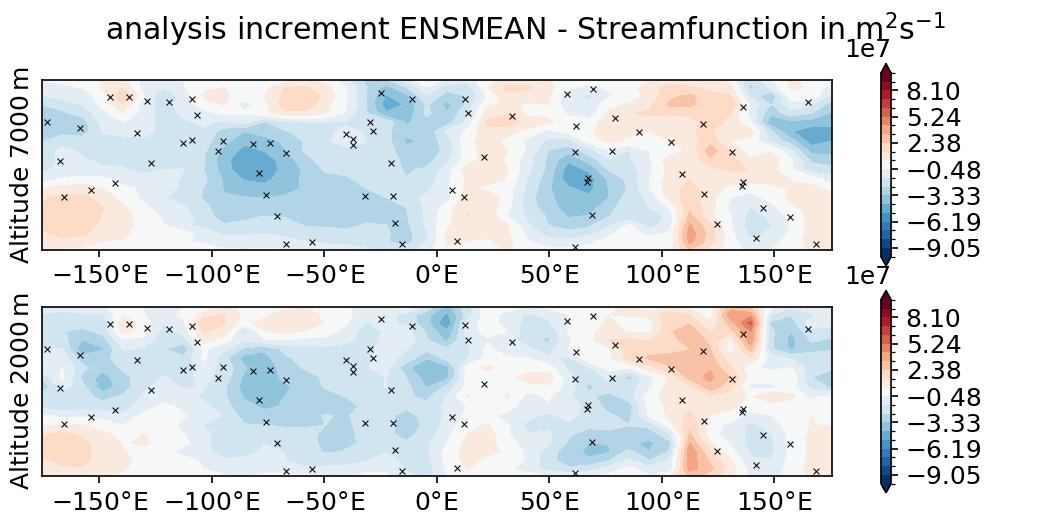
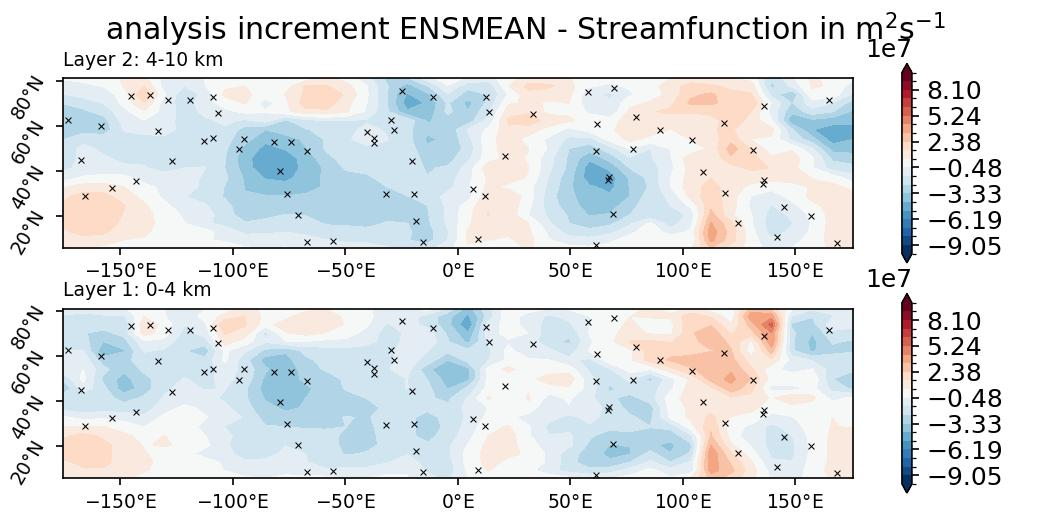
Modifications to LETKF and QGStart tutorials
- Edited qg_fields.py to add latitude axis labels, and labels for each panel as layer 1 and 2.
- Updated tutorial images for qgstart and LETKF tutorials accordingly
- Consolidated single-observation experiment to same observation for all 3d solvers (to do: need to edit EnVar and 3dvar tutorials accordingly)
- Modified letkf notebook to plot ensemble perturbations rather than member errors. This requires the new script `compute_ensmean.py` to visualize perturbations with plot.py.
- Other minor edits to the notebook text provided

Changed region(s): [[0.0, 0.061, 0.9752, 0.9752]]

diff --git a/notebooks/EDU/plots_scripts/plot/qg_fields.py b/notebooks/EDU/plots_scripts/plot/qg_fields.py
@@ -219,15 +219,13 @@ def func(args):
             vmax = float(args.fieldmax)
             ex=1
             if (vmax > 1e12): ex=2
-            if (variable == 'q'): vmax=0.5*vmax*(10**-12)**ex #3.5e-4
+            if (variable == 'q'): vmax=0.5*vmax*(10**-11.5)**ex #3.5e-4
             if (variable == 'u'): vmax=0.5*vmax*(10**-6)**ex #140.0
-            if (variable == 'v'): vmax=0.5*vmax*(10**-6)**ex #70.0
+            if (variable == 'v'): vmax=0.25*vmax*(10**-6)**ex #70.0
             vmin = -vmax
             npltlevs=22
         else:
             vmax = 0.0
-            tmax=0.0
-            tmin=0.0
             if args.basefilepath is None: # Full field
                 if (variable == 'x'): vmax=5.0e8 #5.0e8
                 if (variable == 'q'): vmax=6.5e-4  #6.5e-4
@@ -242,11 +240,14 @@ def func(args):
                 npltlevs=22
             vmin = -1.0 * vmax
             if args.basefilepath is None and variable == 'x': vmax=1.1e8
-            for level in levels:
-                for field in fields_plot:
-                    tmax = max(tmax, np.max(field[level]))
-                    tmin = min(tmin, np.min(field[level]))
-            print(f"data range:({tmin},{tmax}), plot range: ({vmin},{vmax}) ")
+        tmax=0.0
+        tmin=0.0
+        for level in levels:
+            for field in fields_plot:
+                tmax = max(tmax, np.max(field[level]))
+                tmin = min(tmin, np.min(field[level]))
+        print(f"data range:({tmin},{tmax}), plot range: ({vmin},{vmax}) ")
+        
         for level in levels:
             clevels.append(np.linspace(vmin, vmax, npltlevs))
             clevels_obs.append(np.linspace(-1.0e8, 1.0e8, npltlevs))
@@ -259,11 +260,12 @@ def func(args):
         params = {
             "font.size": 12,
             "text.latex.preamble" : r"\usepackage{amsmath}\usepackage{amsfonts}",
-            "ytick.left": False,
-            "ytick.labelleft": False,
+            #"ytick.left": False,
+            #"ytick.labelleft": False,
         }
         plt.rcParams.update(params)
         my_formatter = mticker.FuncFormatter(lambda x, pos:"{:.0f}$\degree$E".format(x).replace("-", "\N{MINUS SIGN}"))
+        my_formatter2 = mticker.FuncFormatter(lambda x, pos:"{:.0f}$\degree$N".format(x).replace("-", "\N{MINUS SIGN}"))
         if args.plotwind:
             # Select scale
             if args.basefilepath is None:
@@ -315,8 +317,12 @@ def func(args):
                 ax.set_aspect("equal")
                 cb = fig.colorbar(im, ax=ax, shrink=0.9, extend='both', format=("%.1e" if variable == "q" else None))
                 #ax.set_ylabel("Altitude {:.0f}$\,$m".format(z_coord[level]))
-                ax.set_ylabel(f"Ly {level+1}: {int(z_depths[level][0])}-{int(z_depths[level][1])}km")
+                #ax.set_ylabel(f"Ly {level+1}: {int(z_depths[level][0])}-{int(z_depths[level][1])}km")
                 ax.xaxis.set_major_formatter(my_formatter)
+                ax.yaxis.set_major_formatter(my_formatter2)
+                ax.tick_params(axis='x', labelsize=9)
+                ax.tick_params(axis='y', labelrotation=60, labelsize=9) 
+                ax.set_title(f"Layer {level+1}: {int(z_depths[level][0])}-{int(z_depths[level][1])} km", fontsize=9, loc='left')
 
                 # Set title
                 varname = dict(x="Streamfunction", q="Potential vorticity",u="Zonal Wind", v="Meridional Wind").get(variable)
@@ -325,7 +331,7 @@ def func(args):
                     fig.suptitle(args.title + " - " + varname + " in " + unit)
                 else:
                     fig.suptitle(varname + " in " + unit)
-                fig.subplots_adjust(left=0.04, right=0.98, bottom=0.04, top=0.9, hspace=0.01)
+                fig.subplots_adjust(left=0.06, right=1.0, bottom=0.04, top=0.90, hspace=0.04)
 
             # Save plot
             if args.output is None:

diff --git a/notebooks/EDU/plots_scripts/compute_ensmean.py b/notebooks/EDU/plots_scripts/compute_ensmean.py
@@ -1,0 +1,94 @@
+#!/usr/bin/env python3
+
+import argparse
+import glob
+import numpy as np
+from netCDF4 import Dataset
+
+def main():
+    parser = argparse.ArgumentParser(
+        description="Compute ensemble mean from NetCDF ensemble members"
+    )
+    parser.add_argument(
+        "-p", "--pattern",
+        required=True,
+        help="Input file pattern, e.g. bkgd.ens.*.2009-12-30T00:00:00Z.P1D.nc"
+    )
+    parser.add_argument(
+        "-o", "--output",
+        required=True,
+        help="Output ensemble mean file"
+    )
+    args = parser.parse_args()
+
+    files = sorted(glob.glob(args.pattern))
+
+    if len(files) == 0:
+        raise RuntimeError("No files found matching pattern")
+
+    print(f"Found {len(files)} ensemble members")
+
+    # --- Open first file as template ---
+    ds0 = Dataset(files[0], "r")
+
+    # Identify variables to average (exclude coordinates)
+    varnames = []
+    for v in ds0.variables:
+        if v in ds0.dimensions:
+            continue  # skip coordinate variables like time, lat, lon
+        varnames.append(v)
+
+    print(f"Variables to average: {varnames}")
+
+    # --- Initialize accumulators ---
+    sums = {}
+    for v in varnames:
+        sums[v] = np.zeros_like(ds0.variables[v][:], dtype=np.float64)
+
+    # --- Loop over ensemble members ---
+    for f in files:
+        print(f"Reading {f}")
+        ds = Dataset(f, "r")
+
+        for v in varnames:
+            sums[v] += ds.variables[v][:]
+
+        ds.close()
+
+    # --- Compute mean ---
+    nmem = len(files)
+    means = {v: sums[v] / nmem for v in varnames}
+
+    # --- Write output file ---
+    out = Dataset(args.output, "w")
+
+    # Copy dimensions
+    for dim_name, dim in ds0.dimensions.items():
+        out.createDimension(dim_name, len(dim) if not dim.isunlimited() else None)
+
+    # Copy variables
+    for name, var in ds0.variables.items():
+        out_var = out.createVariable(name, var.datatype, var.dimensions)
+
+        # Copy attributes
+        out_var.setncatts({k: var.getncattr(k) for k in var.ncattrs()})
+
+        if name in varnames:
+            out_var[:] = means[name]
+        else:
+            # Copy coordinate variables unchanged
+            out_var[:] = var[:]
+
+    # Global attributes
+    out.setncatts({k: ds0.getncattr(k) for k in ds0.ncattrs()})
+    out.history = "Ensemble mean computed from {} members".format(nmem)
+
+    ds0.close()
+    out.close()
+
+    print(f"Ensemble mean written to {args.output}")
+    exit(0)
+
+
+if __name__ == "__main__":
+    main()
